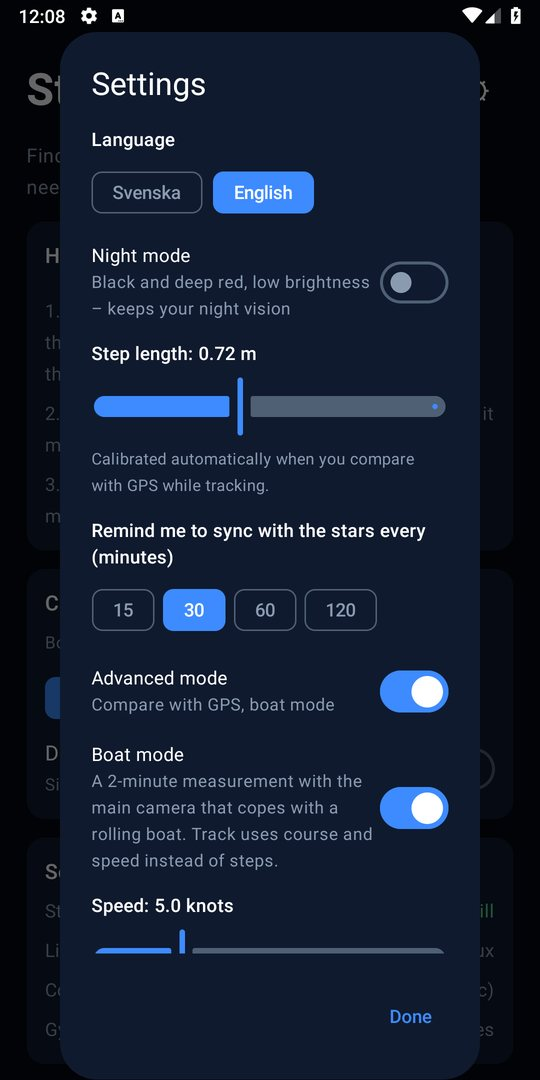
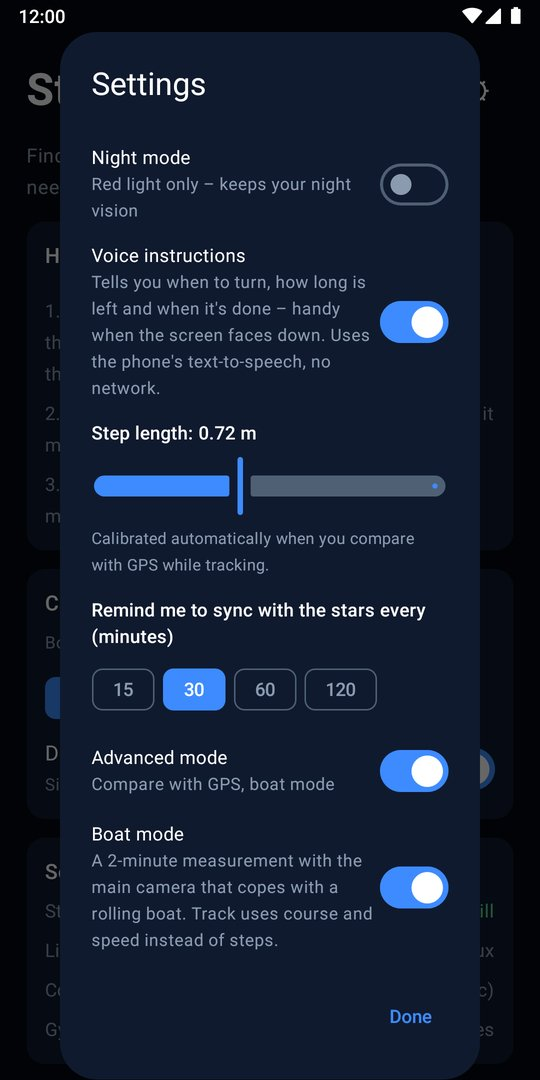
New 1.0.1 settings screenshot on site and Play frame
Claude-Session: https://claude.ai/code/session_01G7NetsW8sqx8ohpW67qzxH

diff --git a/index.html b/index.html
@@ -207,7 +207,7 @@ footer{padding-block:36px;color:var(--muted);font-size:14px}
         <li><span lang="en"><b>Advanced mode.</b> Adds Compare GPS on the map, so you can check a star fix against satellite navigation and spot jamming or spoofing. GPS comparisons also calibrate your step length.</span><span lang="sv"><b>Avancerat läge.</b> Lägger till Jämför GPS på kartan, så att du kan kontrollera stjärnfixen mot satellitnavigeringen och upptäcka störning eller förfalskning. Jämförelserna kalibrerar också din steglängd.</span></li>
         <li><span lang="en"><b>Boat mode</b> (in Advanced mode). A 2-minute measurement with the main camera that copes with a rolling deck. It follows the stars frame by frame and warns you if the boat turns. At sea, Track uses compass course and the speed you enter in knots instead of steps.</span><span lang="sv"><b>Båtläge</b> (i Avancerat läge). En mätning på 2 minuter med huvudkameran som klarar sjögång. Den följer stjärnorna bild för bild och varnar om båten girar. Till sjöss använder Spåra kompasskursen och farten du anger i knop i stället för steg.</span></li>
       </ul>
-      <figure><img src="img/settings-en-540.jpg" width="540" height="1080" alt="Starways settings: language, night mode, step length, star sync reminder, Advanced mode and Boat mode switched on, speed 5.0 knots" loading="lazy"><figcaption><span lang="en">Settings with Advanced mode and Boat mode on</span><span lang="sv">Inställningar med Avancerat läge och Båtläge påslagna</span></figcaption></figure>
+      <figure><img src="img/settings-en-540.jpg" width="540" height="1080" alt="Starways settings: night mode, voice instructions on, step length, star sync reminder, Advanced mode and Boat mode switched on" loading="lazy"><figcaption><span lang="en">Settings with Advanced mode and Boat mode on</span><span lang="sv">Inställningar med Avancerat läge och Båtläge påslagna</span></figcaption></figure>
       <figure><img src="img/boat-mode-en-540.jpg" width="540" height="1080" alt="Boat mode measurement in night mode: 0:29 left, 60 star frames, locked on the stars, hold your course, yaw 0.0 degrees" loading="lazy"><figcaption><span lang="en">Boat mode: locked on the stars, hold your course</span><span lang="sv">Båtläge: låst på stjärnorna, håll kursen</span></figcaption></figure>
     </div>
     <p class="note"><span lang="en">Boat mode is experimental. It has been tested in simulation, not yet on a real boat. Hold a steady course and speed while it measures, and calibrate the sensors in harbour or on land first.</span><span lang="sv">Båtläget är experimentellt. Det är testat i simulering men ännu inte på en riktig båt. Håll stadig kurs och fart medan det mäter, och kalibrera sensorerna i hamn eller på land först.</span></p>
